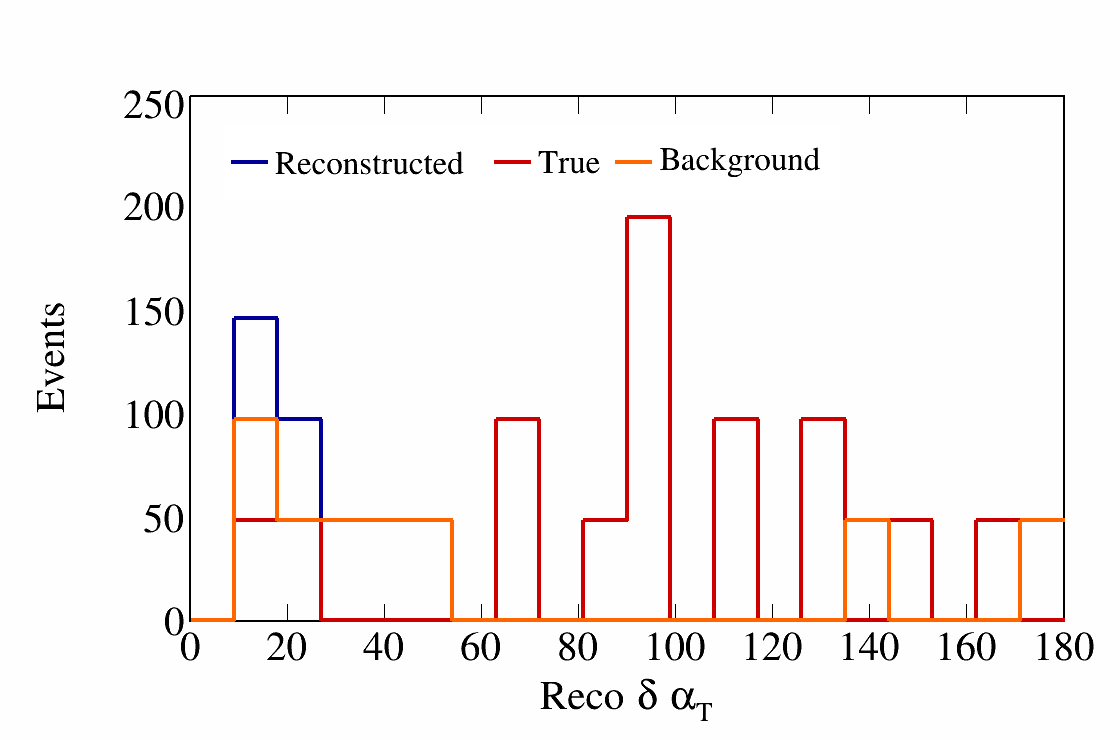
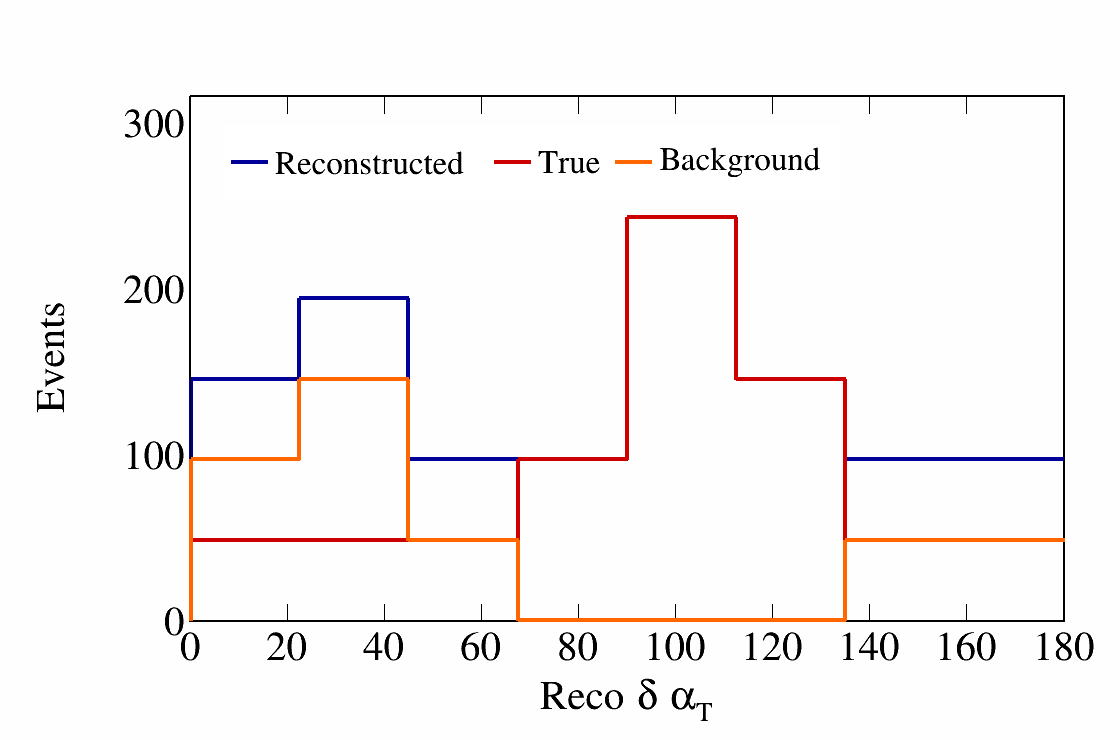
Move all binning to `Definitions.h`

diff --git a/CAFAnaAnalysis/Scripts/Selection.C b/CAFAnaAnalysis/Scripts/Selection.C
@@ -38,30 +38,6 @@ void Selection() {
     // The SpectrumLoader object handles the loading of CAFs and the creation of Spectrum.
     SpectrumLoader NuLoader(TargetFile);
 
-    // Create the binning schemes for the Vars we wish to plot.
-    const Binning bPrimaryEnergy = Binning::Simple(1, 0, 3.0); // one bin
-    const Binning bAngleBins = Binning::Simple(20, 0.0, 1.0);
-    const Binning bDeltaAlphaBins = Binning::Simple(20, 0.0, 180.0);
-    const Binning bTransverseMomentumBins = Binning::Simple(20, 0.0, 1.0);
-    const Binning bMuonMomentumBins = Binning::Simple(20, 0.1, 1.2);
-    const Binning bProtonMomentumBins = Binning::Simple(20, 0.3, 1.0);
-
-    // Double differential bins
-    Tools tools; // tools for double differential bins
-
-    const Binning bTransverseMomentumInMuonCosTheta = Binning::Custom(
-        tools.Return2DBinIndices(TwoDArrayNBinsTransverseMomentumInMuonCosThetaSlices)
-    );
-    const Binning bDeltaAlphaTInMuonCosTheta = Binning::Custom(
-        tools.Return2DBinIndices(TwoDArrayNBinsDeltaAlphaTInMuonCosThetaSlices)
-    );
-    const Binning bCosOpeningAngleProtonsInMuonCosTheta = Binning::Custom(
-        tools.Return2DBinIndices(TwoDArrayNBinsCosOpeningAngleProtonsInMuonCosThetaSlices)
-    );
-    const Binning bCosOpeningAngleMuonTotalProtonInMuonCosTheta = Binning::Custom(
-        tools.Return2DBinIndices(TwoDArrayNBinsCosOpeningAngleMuonTotalProtonInMuonCosThetaSlices)
-    );
-
     // We now create overlaid plots for several reconstructed variables and three lines:
     //     1. all selected reconstructed events
     //     2. reco signal events
@@ -240,7 +216,7 @@ void Selection() {
         RecoBkgHisto->GetYaxis()->SetRangeUser(0.,YAxisRange);
 
         TLegendEntry* legRecoTrue = leg->AddEntry(RecoTrueHisto,"True","l");
-        RecoTrueHisto->SetLineColor(kRed+1); 
+        RecoTrueHisto->SetLineColor(kRed+1);
         RecoTrueHisto->SetLineWidth(4);
 
         TLegendEntry* legRecoBkg = leg->AddEntry(RecoBkgHisto,"Background","l");

diff --git a/CAFAnaAnalysis/Scripts/Definitions.h b/CAFAnaAnalysis/Scripts/Definitions.h
@@ -45,6 +45,34 @@ namespace ana
         {111, {0.0f, std::numeric_limits<float>::max()}} // Pi zero
     };
 
+    ///////////
+    // Binning
+    ///////////
+
+    // Create the binning schemes for the Vars we wish to plot.
+    const Binning bPrimaryEnergy = Binning::Simple(1, 0, 3.0); // one bin
+    const Binning bAngleBins = Binning::Simple(20, 0.0, 1.0);
+    const Binning bDeltaAlphaBins = Binning::Simple(8, 0.0, 180.0);
+    const Binning bTransverseMomentumBins = Binning::Simple(20, 0.0, 1.0);
+    const Binning bMuonMomentumBins = Binning::Simple(20, 0.1, 1.2);
+    const Binning bProtonMomentumBins = Binning::Simple(20, 0.3, 1.0);
+
+    // Double differential bins
+    Tools tools; // tools for double differential bins
+
+    const Binning bTransverseMomentumInMuonCosTheta = Binning::Custom(
+        tools.Return2DBinIndices(TwoDArrayNBinsTransverseMomentumInMuonCosThetaSlices)
+    );
+    const Binning bDeltaAlphaTInMuonCosTheta = Binning::Custom(
+        tools.Return2DBinIndices(TwoDArrayNBinsDeltaAlphaTInMuonCosThetaSlices)
+    );
+    const Binning bCosOpeningAngleProtonsInMuonCosTheta = Binning::Custom(
+        tools.Return2DBinIndices(TwoDArrayNBinsCosOpeningAngleProtonsInMuonCosThetaSlices)
+    );
+    const Binning bCosOpeningAngleMuonTotalProtonInMuonCosTheta = Binning::Custom(
+        tools.Return2DBinIndices(TwoDArrayNBinsCosOpeningAngleMuonTotalProtonInMuonCosThetaSlices)
+    );
+
     //////////////
     // Functions
     //////////////
@@ -431,8 +459,6 @@ namespace ana
     ////////////////////////////////
     // Double differential variables
     ////////////////////////////////
-
-    Tools tools; // tools for double differential variables
 
     // All variables are in muon cos theta
 

diff --git a/CAFAnaAnalysis/Scripts/SelectionEfficiency.C b/CAFAnaAnalysis/Scripts/SelectionEfficiency.C
@@ -34,30 +34,6 @@ void SelectionEfficiency() {
     // The SpectrumLoader object handles the loading of CAFs and the creation of Spectrum.
     SpectrumLoader NuLoader(TargetFile);
 
-    // Create the binning schemes for the Vars we wish to plot.
-    const Binning bPrimaryEnergy = Binning::Simple(1, 0, 3.0); // one bin
-    const Binning bAngleBins = Binning::Simple(20, 0.0, 1.0);
-    const Binning bDeltaAlphaBins = Binning::Simple(20, 0.0, 180.0);
-    const Binning bTransverseMomentumBins = Binning::Simple(20, 0.0, 1.0);
-    const Binning bMuonMomentumBins = Binning::Simple(20, 0.1, 1.2);
-    const Binning bProtonMomentumBins = Binning::Simple(20, 0.3, 1.0);
-
-    // Double differential bins
-    Tools tools; // tools for double differential bins
-
-    const Binning bTransverseMomentumInMuonCosTheta = Binning::Custom(
-        tools.Return2DBinIndices(TwoDArrayNBinsTransverseMomentumInMuonCosThetaSlices)
-    );
-    const Binning bDeltaAlphaTInMuonCosTheta = Binning::Custom(
-        tools.Return2DBinIndices(TwoDArrayNBinsDeltaAlphaTInMuonCosThetaSlices)
-    );
-    const Binning bCosOpeningAngleProtonsInMuonCosTheta = Binning::Custom(
-        tools.Return2DBinIndices(TwoDArrayNBinsCosOpeningAngleProtonsInMuonCosThetaSlices)
-    );
-    const Binning bCosOpeningAngleMuonTotalProtonInMuonCosTheta = Binning::Custom(
-        tools.Return2DBinIndices(TwoDArrayNBinsCosOpeningAngleMuonTotalProtonInMuonCosThetaSlices)
-    );
-
     // We will create efficiency plots using true variables and definining signal efficiency
     // as the number of reconstructed the events that pass our signal definition and are true
     // signal events over the total true signal events; these two histograms are plotted
